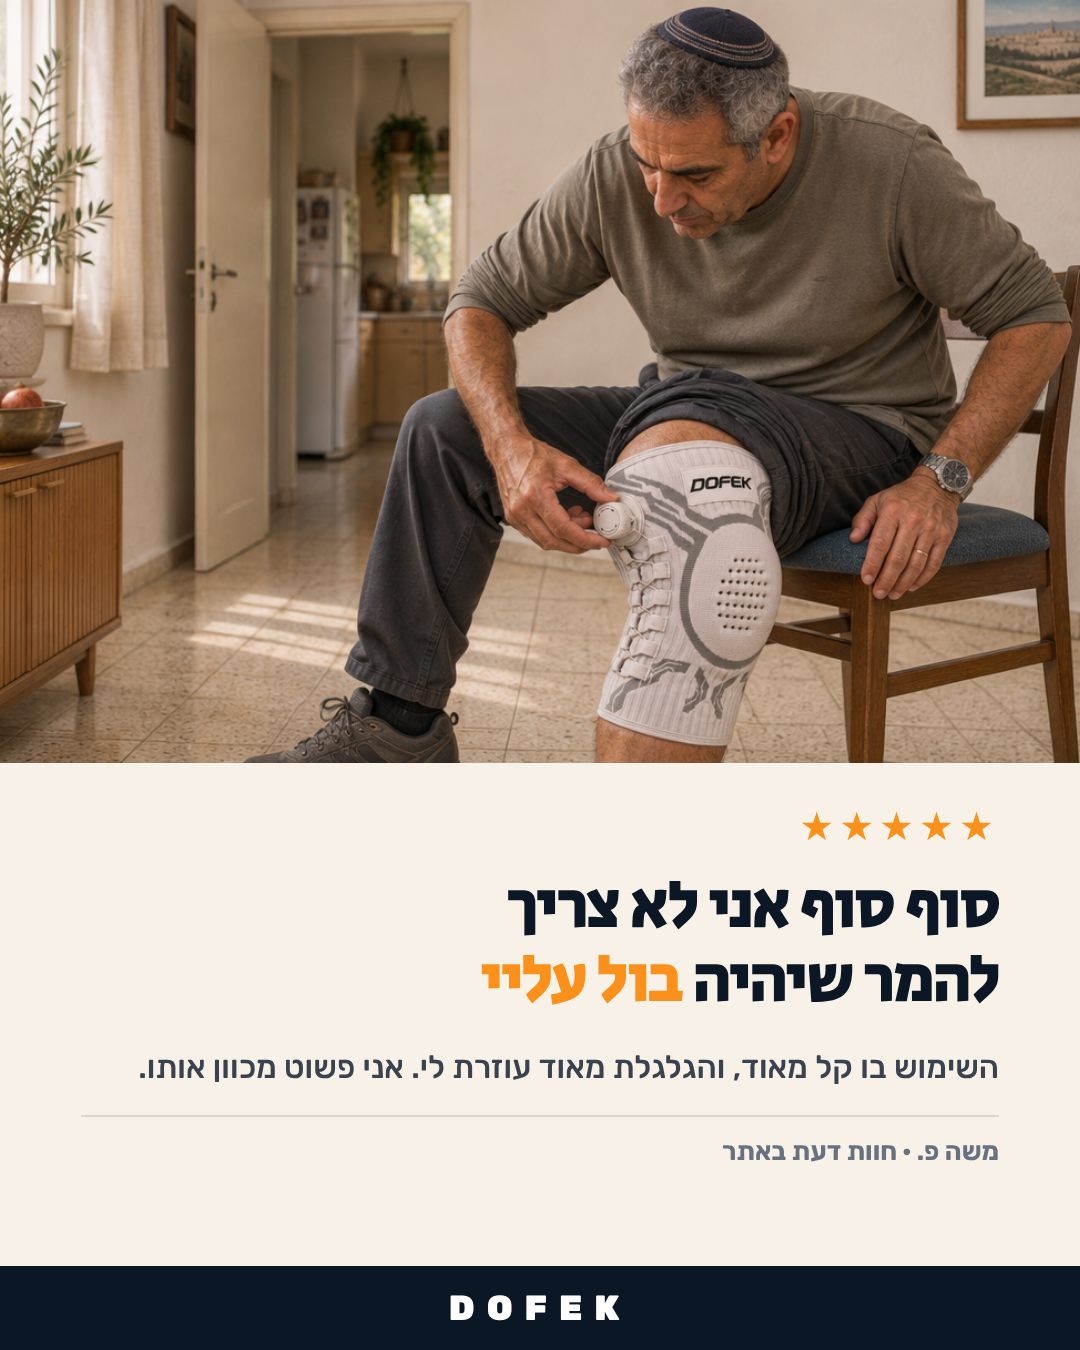
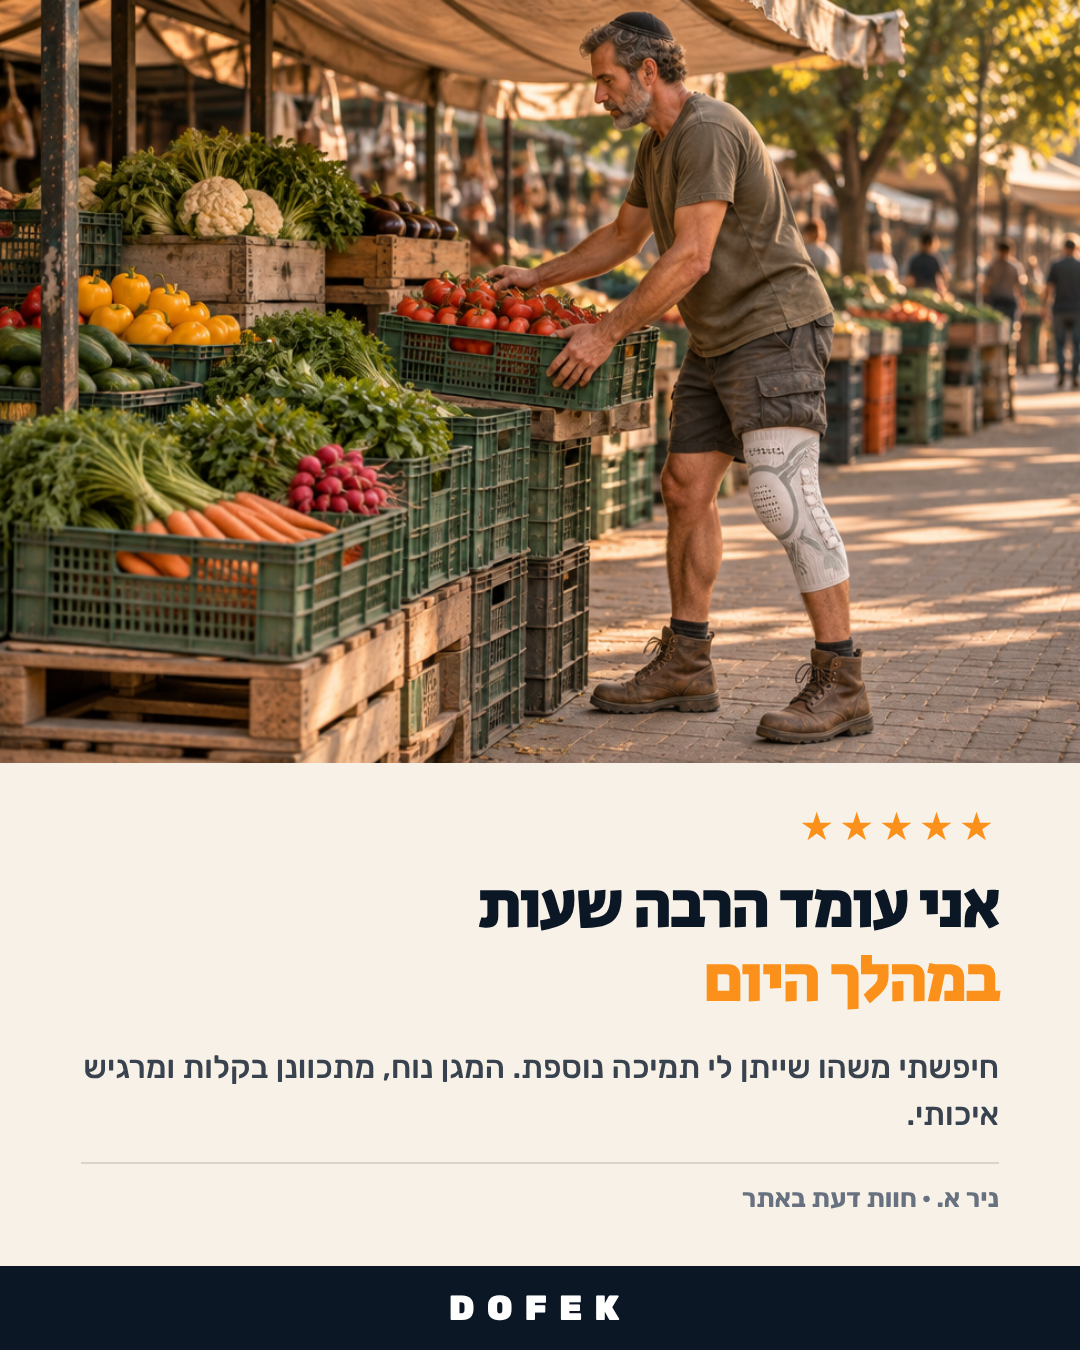
replace the fourth ad: the brace did not sit on the leg
He kept A, B and C and rejected D on two counts, both right: the seated indoor
scene was weaker than the others, and the brace floated rather than gripping
the knee.

The prompt fix was to stop describing how the brace looks and start describing
how it sits: hugging the knee with no gap or bagging, the top band gripping the
thigh above the knee and the bottom band the calf below, following the taper of
the leg, correctly sized rather than oversized.

New story from Nir A., "I stand for many hours during the day", shot at an
Israeli market so the claim is visible in the frame rather than only stated.

Claude-Session: https://claude.ai/code/session_01L77BxqNt87QLWb9joW6UGc

diff --git a/variants/dofek/ads/concepts/renders/mk7.js b/variants/dofek/ads/concepts/renders/mk7.js
@@ -52,10 +52,10 @@ const ADS=[
    head:'שבועיים ברצף אני לוקחת<br>את הנכדים <em>מהגן</em>',
    q:'ונעלמו הכאבים.',
    who:'רינה מ. · חוות דעת באתר' },
- { id:'DOFEK-story-D', img:'w3.png', phH:Math.round(H*0.565), pos:'center 50%', zoom:1.0,
-   head:'סוף סוף אני לא צריך<br>להמר שיהיה <em>בול עליי</em>',
-   q:'השימוש בו קל מאוד, והגלגלת מאוד עוזרת לי. אני פשוט מכוון אותו.',
-   who:'משה פ. · חוות דעת באתר' },
+ { id:'DOFEK-story-D', img:'w5.png', phH:Math.round(H*0.565), pos:'center 52%', zoom:1.0,
+   head:'אני עומד הרבה שעות<br><em>במהלך היום</em>',
+   q:'חיפשתי משהו שייתן לי תמיכה נוספת. המגן נוח, מתכוונן בקלות ומרגיש איכותי.',
+   who:'ניר א. · חוות דעת באתר' },
 ];
 (async()=>{const br=await chromium.launch();
 for(const a of ADS){const p=await br.newPage({viewport:{width:W,height:H},deviceScaleFactor:1});

diff --git a/variants/dofek/ads/concepts/2026-11-24-sketches.md b/variants/dofek/ads/concepts/2026-11-24-sketches.md
@@ -386,3 +386,20 @@ expectations».
 
 הפרטים לא נעלמו מהקמפיין — הם נשארים בטקסט הראשי של המודעה במטא ובדף המוצר,
 שם הם באמת נקראים לפני החלטת קנייה.
+
+## סבב 8 — D הוחלפה
+
+A, B ו-C אושרו. D נפסלה על שתי סיבות, ושתיהן נכונות: הישיבה בבית הייתה
+חלשה יותר מהשאר, **והמגן בה לא ישב על הרגל** — הוא נראה גדול מדי וצף במקום
+להיצמד לקו הברך.
+
+**התיקון בפרומפט** היה להפסיק לתאר רק איך המגן *נראה* ולהתחיל לתאר איך הוא
+*יושב*: נצמד לקו הברך בלי מרווח, בלי בד מתנפח, הגומייה העליונה אוחזת את
+הירך מעל הברך והתחתונה את השוק מתחתיה, והשרוול הולך לפי ההתחדדות של הרגל.
+נוסף גם «במידה הנכונה לרגל הזאת, לא גדול».
+
+**הסיפור החדש: ניר א.** — «אני עומד הרבה שעות במהלך היום». מכסה את אותו
+קהל (הגבר שעל הרגליים) בלי זווית המידה שנפסלה.
+
+**הצילום:** שוק ישראלי, סידור ארגזים, אור אחר הצהריים. «עומד הרבה שעות»
+נראה בפריים במקום להיאמר בלבד — וזה גם מקום שהקהל הזה מזהה מיד.
